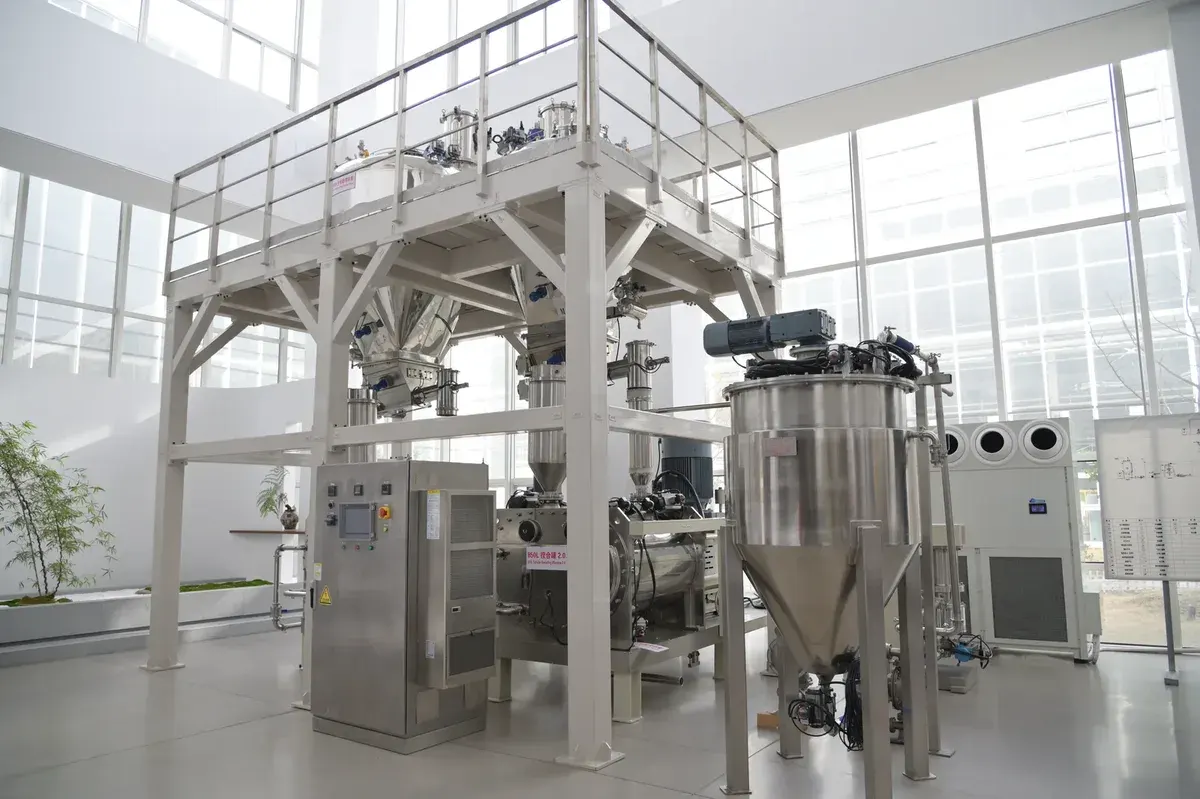
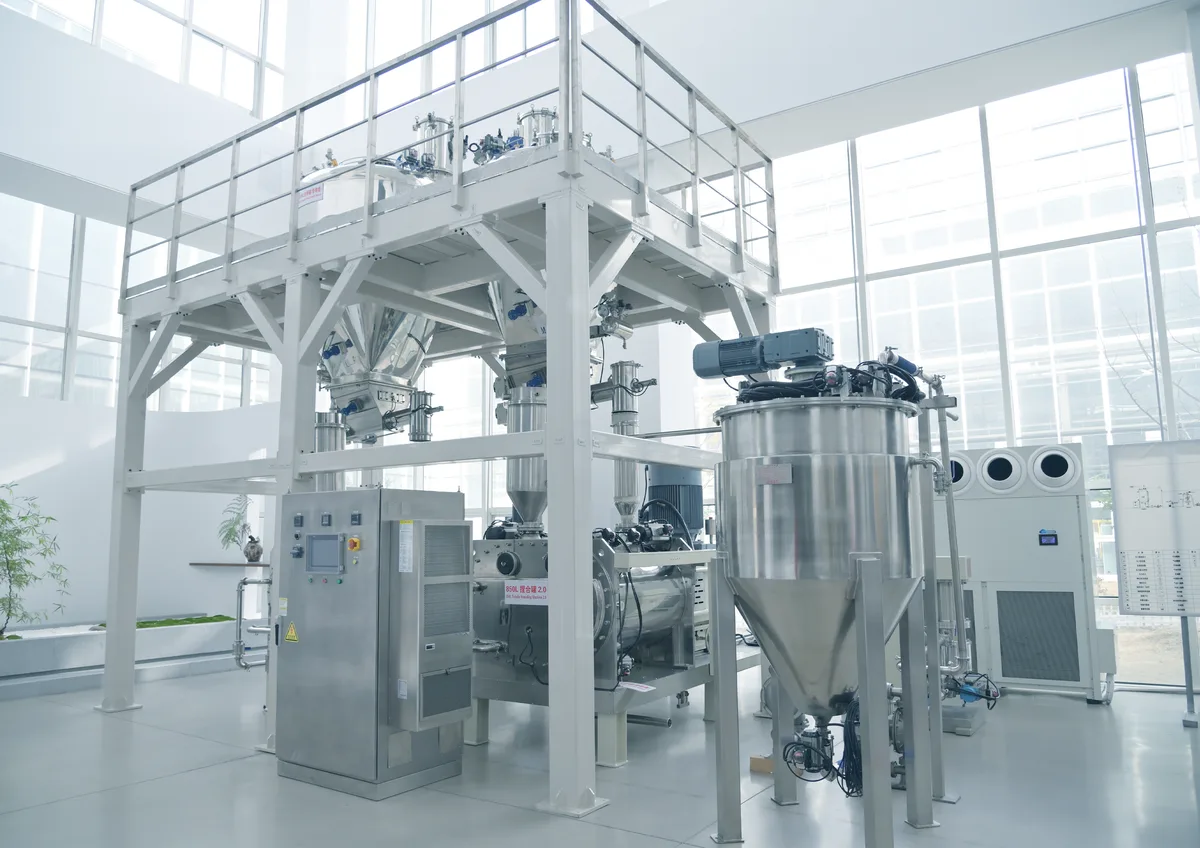
perf: 研发实力图片替换 + 全球化布局国家扩充 + 解决方案页新能源介绍精简
- 关于我们页研发实力轮播三张图替换为客户提供的展厅/实验室实拍图（管线式制浆系统、辊压机、涂布机），统一按 1200px 宽 + WEBP q82 压缩，体积均小于原图
- 全球化布局地图新增 22 个主要国家节点（亚洲：菲律宾/巴基斯坦/孟加拉/哈萨克斯坦/伊朗/沙特/以色列；欧洲：葡萄牙/荷兰/比利时/瑞士/奥地利/希腊/俄罗斯/乌克兰；美洲：阿根廷/哥伦比亚/秘鲁；大洋洲：新西兰；非洲：埃及/尼日利亚/摩洛哥/肯尼亚），丰富全球布局展示
- 解决方案列表页按客户评审意见，仅删除"新能源行业"标题下的介绍文字，其余行业保留

diff --git a/src/data/globalPresenceCountries.js b/src/data/globalPresenceCountries.js
@@ -24,7 +24,14 @@ export const countries = [
   { label: '泰国',          region: 'asia',    lng: 100.50, lat: 13.75 },
   { label: '新加坡',        region: 'asia',    lng: 103.82, lat: 1.35  },
   { label: '印度尼西亚',    region: 'asia',    lng: 106.85, lat: -6.21 },
+  { label: '菲律宾',        region: 'asia',    lng: 120.98, lat: 14.60 },
+  { label: '巴基斯坦',      region: 'asia',    lng: 73.06,  lat: 33.72 },
+  { label: '孟加拉国',      region: 'asia',    lng: 90.41,  lat: 23.81 },
+  { label: '哈萨克斯坦',    region: 'asia',    lng: 71.43,  lat: 51.18 },
+  { label: '伊朗',          region: 'asia',    lng: 51.42,  lat: 35.69 },
+  { label: '沙特阿拉伯',    region: 'asia',    lng: 46.72,  lat: 24.63 },
   { label: '阿联酋',        region: 'asia',    lng: 55.27,  lat: 25.20 },
+  { label: '以色列',        region: 'asia',    lng: 34.78,  lat: 32.09 },
   { label: '土耳其',        region: 'asia',    lng: 32.86,  lat: 39.93 },
 
   // 欧洲
@@ -33,9 +40,17 @@ export const countries = [
   { label: '英国',          region: 'europe',  lng: -0.13,  lat: 51.51 },
   { label: '意大利',        region: 'europe',  lng: 12.50,  lat: 41.90 },
   { label: '西班牙',        region: 'europe',  lng: -3.70,  lat: 40.42 },
+  { label: '葡萄牙',        region: 'europe',  lng: -9.14,  lat: 38.72 },
+  { label: '荷兰',          region: 'europe',  lng: 4.90,   lat: 52.37 },
+  { label: '比利时',        region: 'europe',  lng: 4.35,   lat: 50.85 },
+  { label: '瑞士',          region: 'europe',  lng: 7.45,   lat: 46.95 },
+  { label: '奥地利',        region: 'europe',  lng: 16.37,  lat: 48.21 },
   { label: '波兰',          region: 'europe',  lng: 21.01,  lat: 52.23 },
   { label: '瑞典',          region: 'europe',  lng: 18.07,  lat: 59.33 },
   { label: '匈牙利',        region: 'europe',  lng: 19.04,  lat: 47.50 },
+  { label: '希腊',          region: 'europe',  lng: 23.73,  lat: 37.98 },
+  { label: '俄罗斯',        region: 'europe',  lng: 37.62,  lat: 55.75 },
+  { label: '乌克兰',        region: 'europe',  lng: 30.52,  lat: 50.45 },
 
   // 北美
   { label: '美国',          region: 'america', lng: -98.58, lat: 39.83 },
@@ -44,11 +59,19 @@ export const countries = [
 
   // 南美
   { label: '巴西',          region: 'america', lng: -47.93, lat: -15.78 },
+  { label: '阿根廷',        region: 'america', lng: -58.38, lat: -34.60 },
   { label: '智利',          region: 'america', lng: -70.65, lat: -33.45 },
+  { label: '哥伦比亚',      region: 'america', lng: -74.08, lat: 4.71  },
+  { label: '秘鲁',          region: 'america', lng: -77.03, lat: -12.05 },
 
   // 大洋洲
   { label: '澳大利亚',      region: 'oceania', lng: 149.13, lat: -35.28 },
+  { label: '新西兰',        region: 'oceania', lng: 174.78, lat: -41.29 },
 
   // 非洲
   { label: '南非',          region: 'africa',  lng: 28.04,  lat: -26.20 },
+  { label: '埃及',          region: 'africa',  lng: 31.24,  lat: 30.04 },
+  { label: '尼日利亚',      region: 'africa',  lng: 7.49,   lat: 9.06  },
+  { label: '摩洛哥',        region: 'africa',  lng: -6.84,  lat: 34.02 },
+  { label: '肯尼亚',        region: 'africa',  lng: 36.82,  lat: -1.29 },
 ]

diff --git a/src/pages/SolutionsPage.jsx b/src/pages/SolutionsPage.jsx
@@ -185,9 +185,11 @@ export default function SolutionsPage() {
                 <h2 className="solutions-industry-title">{industry.name}</h2>
               </div>
 
-              <p className="solutions-industry-desc">
-                {industry.desc}
-              </p>
+              {industry.id !== 'new-energy' && (
+                <p className="solutions-industry-desc">
+                  {industry.desc}
+                </p>
+              )}
 
               <div className="solutions-cards">
                 {industry.solutions.map((sol) => {
